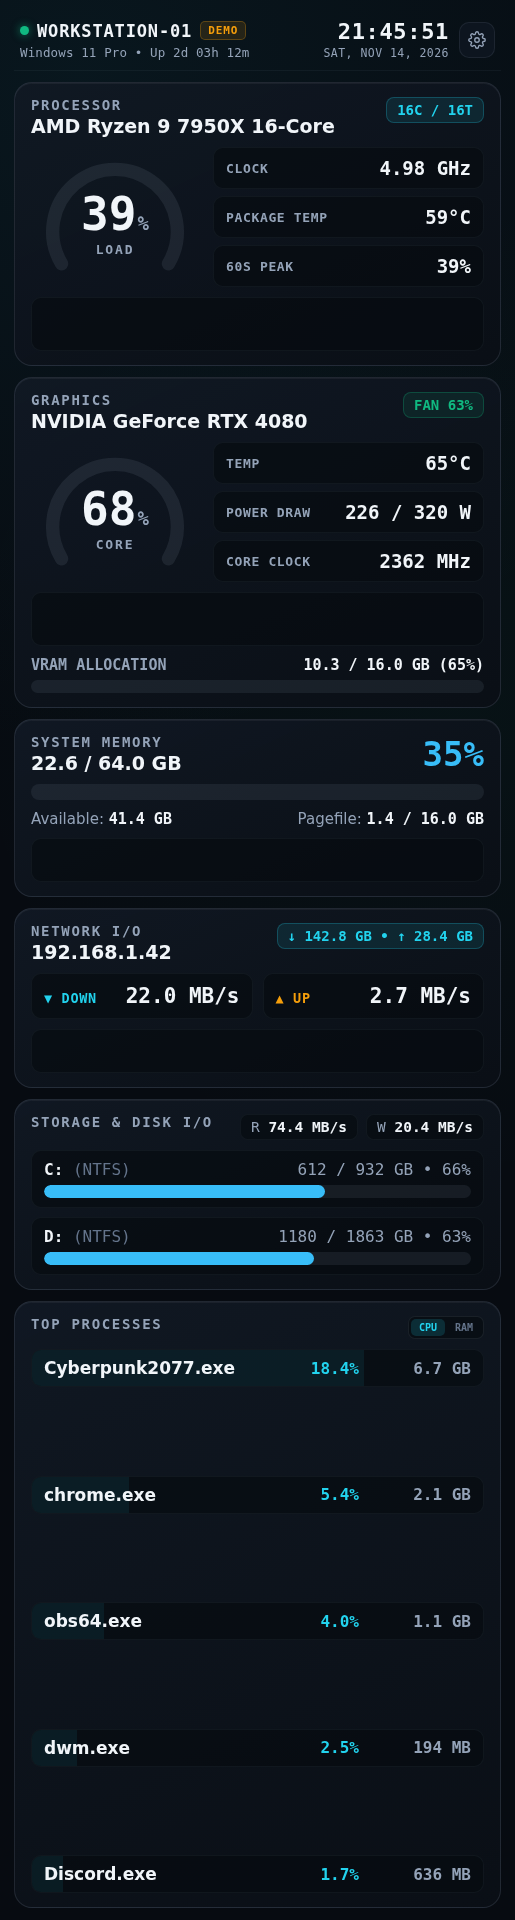
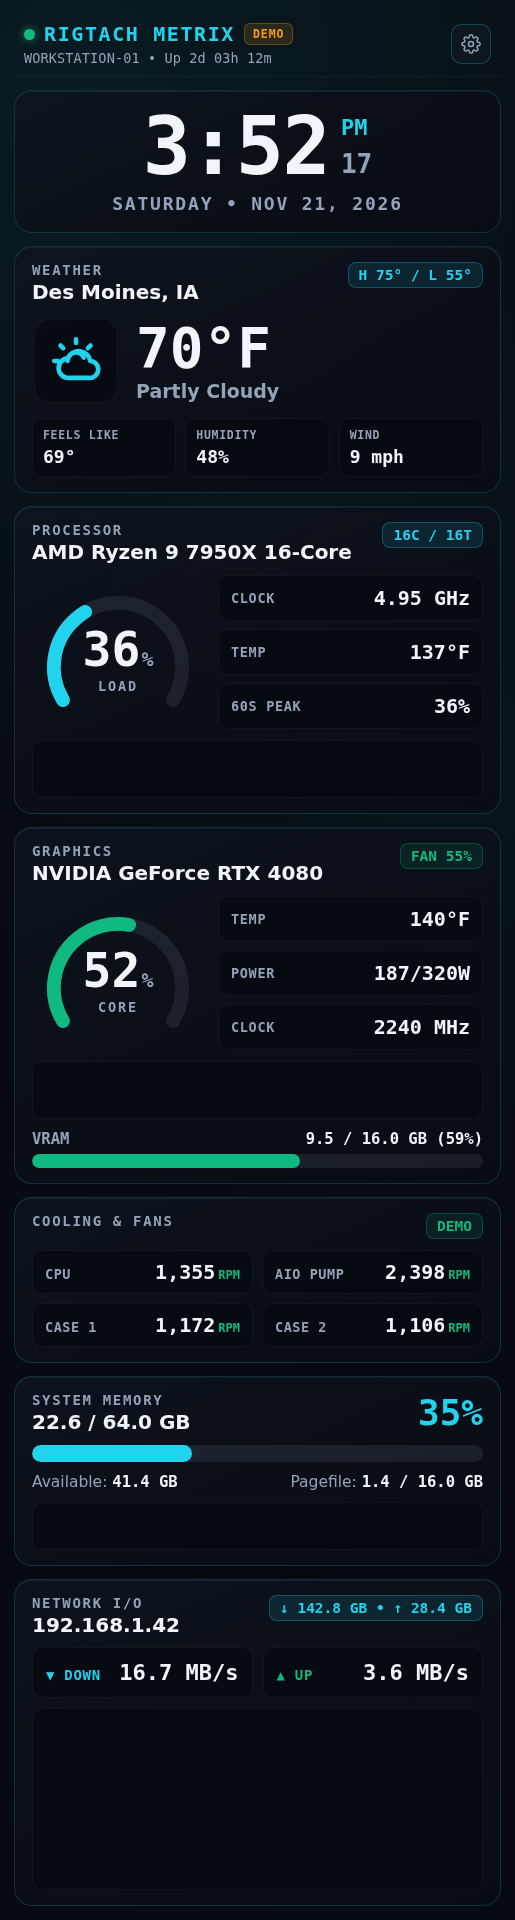
Update website to RigTach Metrix v1.1.1

diff --git a/index.html b/index.html
@@ -349,7 +349,7 @@
           <a href="https://github.com/JRAltd/JRAltd-Workshop/releases/latest" target="_blank" rel="noopener" style="color:var(--cyan); text-decoration:none;">Release notes</a>
         </p>
       </div>
-      <div class="card"><h3>PC Resource Monitor</h3><p>A sleek, frameless dark-telemetry desktop widget built for narrow 515&times;1920 portrait secondary monitors on Windows 10/11. Monitors CPU, NVIDIA GPU, RAM, Network I/O, Disks, and Top Processes in real time from your system tray.</p><img class="app-shot" src="images/pc-resource-monitor.png" alt="PC Resource Monitor 515x1920 vertical telemetry HUD showing CPU, GPU, RAM, Network, Storage, and Top Processes" style="max-height:460px;width:auto;margin:1.25rem auto 0;"><ul class="tools-list"><li>515&times;1920 floating widget</li><li>CPU, GPU, RAM, Net &amp; Disk</li><li>Auto monitor &amp; DPI snap</li><li>System tray controls</li></ul><a class="btn" href="https://github.com/JRAltd/JRAltd-Workshop/releases/download/pc-resource-monitor-v1.0.3/PCResourceMonitor-Setup.exe">Download for Windows</a><p style="font-size:0.85rem; margin-top:1rem;">Free &middot; Windows 10/11 (64-bit) &middot; no Python required. Since the installer isn't code-signed, Windows may show a &ldquo;Windows protected your PC&rdquo; warning &mdash; choose <strong>More info &rarr; Run anyway</strong> to continue. <a href="https://github.com/JRAltd/JRAltd-Workshop/releases/tag/pc-resource-monitor-v1.0.3" target="_blank" rel="noopener" style="color:var(--cyan); text-decoration:none;">Release notes</a></p></div>
+      <div class="card"><h3>RigTach Metrix</h3><p>A sleek, frameless dark-telemetry desktop widget built for narrow 515&times;1920 portrait secondary monitors on Windows 10/11. Features large floor-readable Clock &amp; Weather widgets, custom color themes, and real-time CPU, NVIDIA GPU, Fan RPM, RAM, and Network I/O telemetry from your system tray.</p><img class="app-shot" src="images/pc-resource-monitor.png" alt="PC Resource Monitor 515x1920 vertical telemetry HUD showing CPU, GPU, RAM, Network, Storage, and Top Processes" style="max-height:460px;width:auto;margin:1.25rem auto 0;"><ul class="tools-list"><li>515&times;1920 floating widget</li><li>Clock, Weather, Fans &amp; Themes</li><li>Auto monitor &amp; DPI snap</li><li>System tray controls</li></ul><a class="btn" href="https://github.com/JRAltd/JRAltd-Workshop/releases/download/pc-resource-monitor-v1.1.1/RigTachMetrix-Setup.exe">Download for Windows</a><p style="font-size:0.85rem; margin-top:1rem;">Free &middot; Windows 10/11 (64-bit) &middot; no Python required. Since the installer isn't code-signed, Windows may show a &ldquo;Windows protected your PC&rdquo; warning &mdash; choose <strong>More info &rarr; Run anyway</strong> to continue. <a href="https://github.com/JRAltd/JRAltd-Workshop/releases/tag/pc-resource-monitor-v1.1.1" target="_blank" rel="noopener" style="color:var(--cyan); text-decoration:none;">Release notes</a></p></div>
     </div>
   </section>
 
